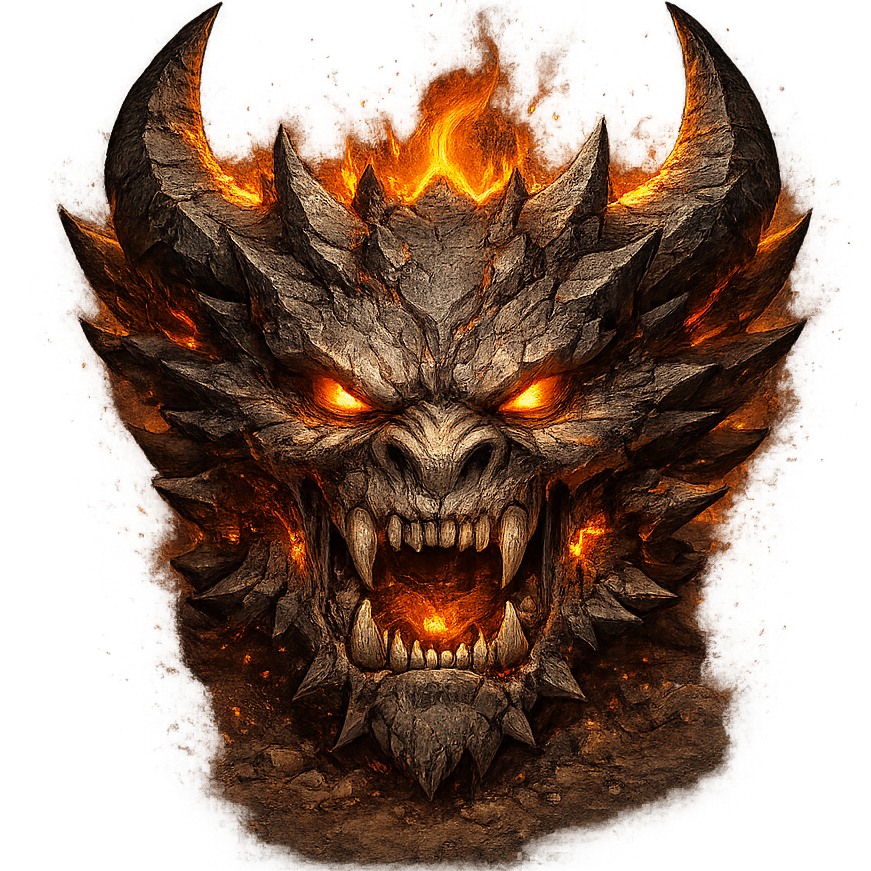
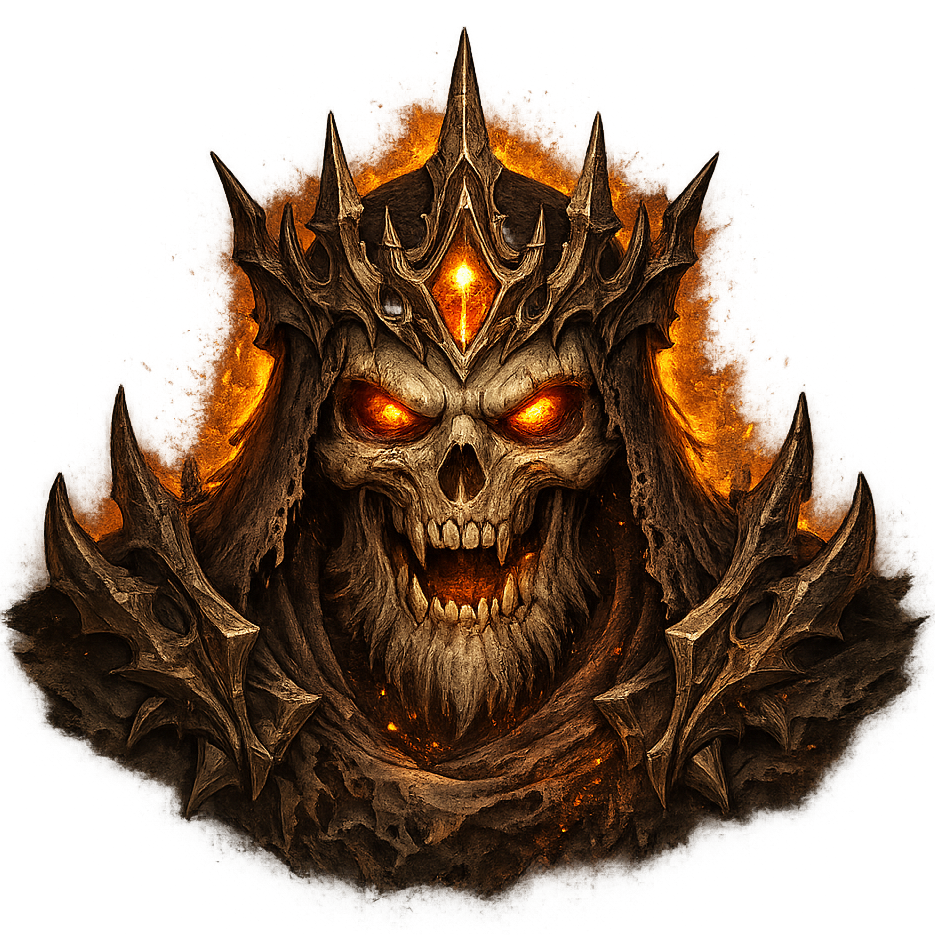
Reworked Tilemap

diff --git a/Assets/Scripts/Map/TileManager.cs b/Assets/Scripts/Map/TileManager.cs
@@ -94,22 +94,40 @@ public class TileManager : MonoBehaviour {
         }
     }
 
+    private void CreateStraightTiles(int y, TileType tileType) {
+        for (int x = 0; x < mapTiles[y - 1].Count; x++) {
+            MapTile childMapTile = mapTiles[y - 1][x];
+            {
+                Vector2 tilePos = new(childMapTile.transform.position.x, childMapTile.transform.position.y + 200);
+                TileType mapTileType = tileType == TileType.None ? MapTile.GetRandomTileType(new() { childMapTile.tileType }) : tileType;
+                GameObject parentMapTileObject = CreateMapTile(tilePos, new(mapTiles[y].Count, y), mapTileType);
+
+                MapTile parentMapTile = parentMapTileObject.GetComponent<MapTile>();
+                childMapTile.nextTiles.Add(parentMapTile);
+
+                CreateMapConnector(parentMapTile, childMapTile);
+            }
+        }
+    }
+
     // Can split the path into 1 or 2 parents
     private void CreateSplitTiles(int y, bool guaranteedSplit, bool largeGapBetweenParents, TileType tileType) {
-        foreach (var childMapTile in mapTiles[y - 1]) {
-            int nParents = PlayerPrefs.HasKey($"SplitTilesKey_{y - 1}")
-                ? PlayerPrefs.GetInt($"SplitTilesKey_{y - 1}")
+        for (int x = 0; x < mapTiles[y - 1].Count; x++) {
+            MapTile childMapTile = mapTiles[y - 1][x];
+            int nParents = PlayerPrefs.HasKey($"SplitTilesKey_{y - 1}_{x}")
+                ? PlayerPrefs.GetInt($"SplitTilesKey_{y - 1}_{x}")
                 : guaranteedSplit ? 2 : Rng.Range(1, 3);
-            PlayerPrefs.SetInt($"SplitTilesKey_{y - 1}", nParents);
+            PlayerPrefs.SetInt($"SplitTilesKey_{y - 1}_{x}", nParents);
             PlayerPrefs.Save();
 
-            for (int x = 0; x < nParents; x++) {
+            for (int i = 0; i < nParents; i++) {
                 int xOffset = largeGapBetweenParents ?
-                                -120 + (x * 240) :
-                                -60 + (x * 120);
+                                -120 + (i * 240) :
+                                -60 + (i * 120);
                 int xPos = nParents == 1 ? (int)childMapTile.transform.position.x : (int)childMapTile.transform.position.x + xOffset;
                 Vector2 tilePos = new(xPos, childMapTile.transform.position.y + 200);
-                GameObject parentMapTileObject = CreateMapTile(tilePos, new(mapTiles[y].Count, y), tileType);
+                TileType mapTileType = tileType == TileType.None ? MapTile.GetRandomTileType(new() { childMapTile.tileType }) : tileType;
+                GameObject parentMapTileObject = CreateMapTile(tilePos, new(mapTiles[y].Count, y), mapTileType);
 
                 MapTile parentMapTile = parentMapTileObject.GetComponent<MapTile>();
                 childMapTile.nextTiles.Add(parentMapTile);
@@ -121,34 +139,36 @@ public class TileManager : MonoBehaviour {
 
     // Can merge with the neighbor tile to share the parent instead of having 1 each
     private void CreateMergeTiles(int y, bool guaranteedMerge, TileType tileType) {
-        for (int i = 0; i < mapTiles[y - 1].Count; i++) {
-            MapTile childMapTile = mapTiles[y - 1][i];
+        for (int x = 0; x < mapTiles[y - 1].Count; x++) {
+            MapTile childMapTile = mapTiles[y - 1][x];
 
             bool willMergeRight = false;
-            if (i != mapTiles[y - 1].Count - 1) {
-                willMergeRight = PlayerPrefs.HasKey($"MergeTilesKey_{y - 1}_{i}")
-                    ? Convert.ToBoolean(PlayerPrefs.GetInt($"MergeTilesKey_{y - 1}_{i}"))
+            if (x != mapTiles[y - 1].Count - 1) {
+                willMergeRight = PlayerPrefs.HasKey($"MergeTilesKey_{y - 1}_{x}")
+                    ? Convert.ToBoolean(PlayerPrefs.GetInt($"MergeTilesKey_{y - 1}_{x}"))
                     : guaranteedMerge || Rng.Chance(50);
-                PlayerPrefs.SetInt($"MergeTilesKey_{y - 1}_{i}", willMergeRight ? 1 : 0);
+                PlayerPrefs.SetInt($"MergeTilesKey_{y - 1}_{x}", willMergeRight ? 1 : 0);
                 PlayerPrefs.Save();
             }
 
             if (willMergeRight) {
-                MapTile childMapTileNeighbor = mapTiles[y - 1][i + 1];
+                MapTile childMapTileNeighbor = mapTiles[y - 1][x + 1];
                 float xBetween = Math.Abs(childMapTile.transform.position.x - childMapTileNeighbor.transform.position.x) / 2;
                 Vector2 tilePos = new(childMapTile.transform.position.x + xBetween, childMapTile.transform.position.y + 200);
-                GameObject parentMapTileObject = CreateMapTile(tilePos, new(mapTiles[y].Count, y), tileType);
+                TileType mapTileType = tileType == TileType.None ? MapTile.GetRandomTileType(new() { childMapTile.tileType, childMapTileNeighbor.tileType }) : tileType;
+                GameObject parentMapTileObject = CreateMapTile(tilePos, new(mapTiles[y].Count, y), mapTileType);
 
                 MapTile parentMapTile = parentMapTileObject.GetComponent<MapTile>();
                 childMapTile.nextTiles.Add(parentMapTile);
                 childMapTileNeighbor.nextTiles.Add(parentMapTile);
-                i++;
+                x++;
 
                 CreateMapConnector(parentMapTile, childMapTile);
                 CreateMapConnector(parentMapTile, childMapTileNeighbor);
             } else {
                 Vector2 tilePos = new(childMapTile.transform.position.x, childMapTile.transform.position.y + 200);
-                GameObject parentMapTileObject = CreateMapTile(tilePos, new(mapTiles[y].Count, y), tileType);
+                TileType mapTileType = tileType == TileType.None ? MapTile.GetRandomTileType(new() { childMapTile.tileType }) : tileType;
+                GameObject parentMapTileObject = CreateMapTile(tilePos, new(mapTiles[y].Count, y), mapTileType);
 
                 MapTile parentMapTile = parentMapTileObject.GetComponent<MapTile>();
                 childMapTile.nextTiles.Add(parentMapTile);
@@ -158,15 +178,15 @@ public class TileManager : MonoBehaviour {
         }
     }
 
-    private void CreateBossTile(int y) {
+    private void CreateMiniBossTile(int y) {
         float xPosSum = 0;
         foreach (var childMapTile in mapTiles[y - 1]) {
             xPosSum += childMapTile.transform.position.x;
         }
         float xPosAverage = xPosSum / mapTiles[y - 1].Count;
 
-        Vector2 tilePos = new(xPosAverage, mapTiles[y - 1][0].transform.position.y + 200);
-        GameObject parentMapTileObject = CreateMapTile(tilePos, new(mapTiles[y].Count, y), TileType.Boss);
+        Vector2 tilePos = new(xPosAverage, mapTiles[y - 1][0].transform.position.y + 300);
+        GameObject parentMapTileObject = CreateMapTile(tilePos, new(mapTiles[y].Count, y), TileType.MiniBoss);
 
         foreach (var childMapTile in mapTiles[y - 1]) {
             MapTile parentMapTile = parentMapTileObject.GetComponent<MapTile>();
@@ -180,8 +200,9 @@ public class TileManager : MonoBehaviour {
         // Just some random math on how to calculate position, rotation and length of each MapConnector
 
         Vector2 posDiff = parentMapTile.transform.position - childMapTile.transform.position;
-        float xBetween = childMapTile.transform.position.x + (posDiff.x / 2);
-        float yBetween = childMapTile.transform.position.y + (posDiff.y / 2);
+        float posDiffDivision = parentMapTile.tileType == TileType.MiniBoss ? 2.5f : 2;
+        float xBetween = childMapTile.transform.position.x + (posDiff.x / posDiffDivision);
+        float yBetween = childMapTile.transform.position.y + (posDiff.y / posDiffDivision);
         Vector2 mapConnectorPos = new(xBetween, yBetween);
 
         float angleX = Mathf.Atan2(posDiff.y, posDiff.x) * Mathf.Rad2Deg;
@@ -189,11 +210,12 @@ public class TileManager : MonoBehaviour {
         Quaternion rotation = Quaternion.Euler(0f, 0f, zRotation);
 
         GameObject mapConnector = Instantiate(mapConnectorPrefab, mapConnectorPos, rotation, scrollViewPanel);
-        mapConnector.GetComponent<RectTransform>().sizeDelta = new Vector2(150, posDiff.magnitude - 100) * 4;
+        int magnitudeReduction = parentMapTile.tileType == TileType.MiniBoss ? 200 : 120;
+        mapConnector.GetComponent<RectTransform>().sizeDelta = new Vector2(150, posDiff.magnitude - magnitudeReduction) * 4;
     }
 
     private void CreateMapTiles() {
-        for (int y = 0; y < 7; y++) {
+        for (int y = 0; y < 11; y++) {
             mapTiles.Add(new List<MapTile>());
 
             switch (y) {
@@ -201,22 +223,34 @@ public class TileManager : MonoBehaviour {
                     CreateStartTiles(y);
                     break;
                 case 1:
-                    CreateSplitTiles(y, true, true, TileType.Campfire);
+                    CreateSplitTiles(y, true, true, TileType.Battlefield);
                     break;
                 case 2:
-                    CreateMergeTiles(y, false, TileType.Battlefield);
+                    CreateStraightTiles(y, TileType.None);
                     break;
                 case 3:
-                    CreateSplitTiles(y, false, false, TileType.Event);
+                    CreateMergeTiles(y, false, TileType.None);
                     break;
                 case 4:
-                    CreateMergeTiles(y, false, TileType.Battlefield);
+                    CreateStraightTiles(y, TileType.None);
                     break;
                 case 5:
-                    CreateMergeTiles(y, true, TileType.Shop);
+                    CreateSplitTiles(y, false, false, TileType.None);
                     break;
                 case 6:
-                    CreateBossTile(y);
+                    CreateStraightTiles(y, TileType.None);
+                    break;
+                case 7:
+                    CreateMergeTiles(y, true, TileType.None);
+                    break;
+                case 8:
+                    CreateSplitTiles(y, false, false, TileType.None);
+                    break;
+                case 9:
+                    CreateMergeTiles(y, true, TileType.Campfire);
+                    break;
+                case 10:
+                    CreateMiniBossTile(y);
                     break;
             }
         }

diff --git a/Assets/Scripts/Map/MapTile.cs b/Assets/Scripts/Map/MapTile.cs
@@ -1,4 +1,5 @@
 using System.Collections.Generic;
+using System.Linq;
 using UnityEngine;
 using UnityEngine.UI;
 
@@ -40,6 +41,29 @@ public class MapTile : MonoBehaviour {
         if (isUnlocked) {
             transform.localScale = new(1.25f, 1.25f);
         }
+        if (tileType == TileType.MiniBoss) {
+            transform.localScale = new(3, 3);
+        }
+    }
+
+    public static TileType GetRandomTileType(List<TileType> childTileTypes) {
+        List<TileType> randomTypes = new() {
+            TileType.Battlefield,
+            TileType.Battlefield,
+            TileType.Battlefield,
+            TileType.Battlefield,
+            TileType.Event,
+            TileType.Event,
+            TileType.Event,
+            TileType.Campfire,
+            TileType.Shop };
+        foreach (var childTileType in childTileTypes) {
+            if (childTileType != TileType.Battlefield) {
+                randomTypes = randomTypes.Where(type => type != childTileType).ToList();
+            }
+        }
+
+        return Rng.Entry(randomTypes);
     }
 
     private void TileClicked() {
